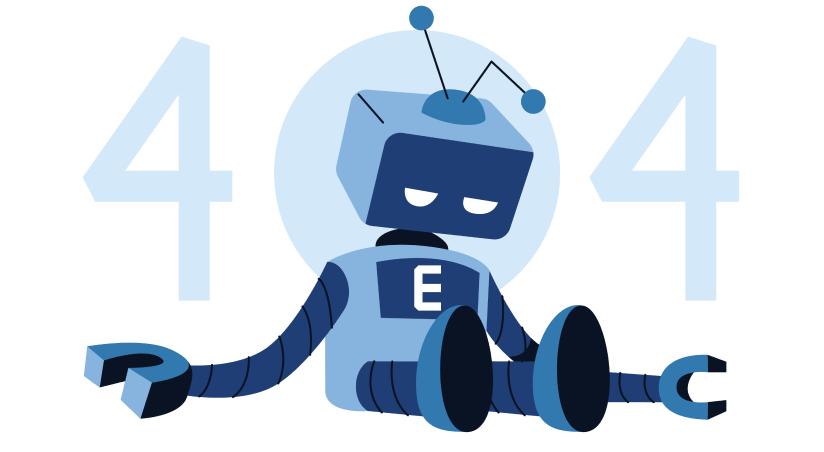
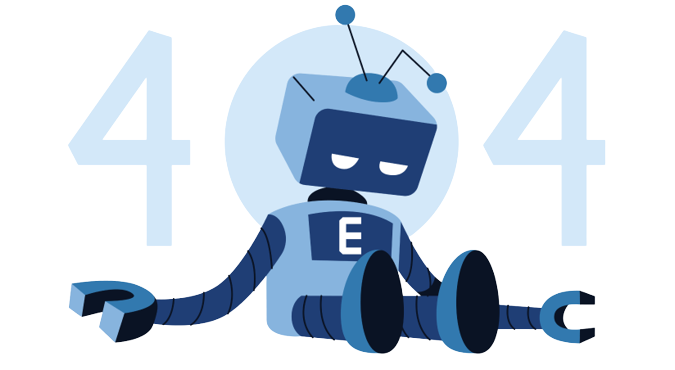
Atualizações

diff --git a/src/pages/NotFound.tsx b/src/pages/NotFound.tsx
@@ -1,28 +1,71 @@
 import React from "react";
+import { Link as ReachLink } from "react-router-dom";
 
 import Header from "../components/Header";
 import Page from "../components/Page";
 import Footer from "../components/Footer";
+import Content from "../components/Content";
+import FadeAnimation from "../components/FadeAnimation";
 
-import { Heading, Text, Image, Flex, Container, Box } from "@chakra-ui/react";
+import NotFoundImage from "../assets/notfoundspace.png";
 
-import Robot from "../assets/notfound.png";
+import {
+  Heading,
+  Text,
+  Image,
+  Flex,
+  Container,
+  Button,
+} from "@chakra-ui/react";
+
+import { ArrowBackIcon } from "@chakra-ui/icons";
 
 function NotFound() {
   return (
     <Page>
       <Header />
 
-      <Flex direction={["column", "row", "row"]} h={"100vh"}>
-        <Box h={"100%"}>
-          <Image boxSize={"200px"} src={Robot} alt="Página não encontrada" />
-        </Box>
+      <Content>
+        <Flex direction={["column", "row", "row"]} w={"100%"} align={"center"}>
+          <FadeAnimation idx={1}>
+            <Container>
+              <Image
+                w={"400px"}
+                src={NotFoundImage}
+                alt="Página não encontrada"
+              />
+            </Container>
+          </FadeAnimation>
 
-        <Container>
-          <Heading>Oops, não tem nada aqui!</Heading>
-          <Text>Chegou nessa página por engano?</Text>
-        </Container>
-      </Flex>
+          <Container textAlign={["center", "left"]}>
+            <FadeAnimation idx={2}>
+              <Heading my={3}>Oops!</Heading>
+              <Heading my={3} fontSize={"xl"}>
+                Parece que você se perdeu no tempo e espaço :(
+              </Heading>
+            </FadeAnimation>
+
+            <FadeAnimation idx={3}>
+              <Text my={3}>
+                A página que você está procurando não existe, ou foi removida.
+              </Text>
+            </FadeAnimation>
+
+            <FadeAnimation idx={4}>
+              <Button
+                leftIcon={<ArrowBackIcon />}
+                colorScheme="gray"
+                my={3}
+                as={ReachLink}
+                to={"/"}
+              >
+                Página Inicial
+              </Button>
+            </FadeAnimation>
+          </Container>
+        </Flex>
+      </Content>
+
       <Footer />
     </Page>
   );

diff --git a/src/components/Footer.tsx b/src/components/Footer.tsx
@@ -9,12 +9,12 @@ function Footer() {
     <>
       <Divider mb={4} />
 
-      <Flex justify={"space-between"} color="gray.600" pt={2} pb={3}>
+      <Flex justify={"space-between"} color="gray.600" pt={1} pb={2}>
         <Flex direction={"column"}>
           <Text>Rhenan Dias</Text>
         </Flex>
         <Flex justify={"center"} textAlign={"center"}>
-          <Text>Guarulhos - São Paulo, {currentYear}</Text>
+          <Text>Guarulhos, São Paulo - {currentYear}</Text>
         </Flex>
       </Flex>
     </>

diff --git a/src/components/Content.tsx b/src/components/Content.tsx
@@ -4,10 +4,15 @@ import { Box } from "@chakra-ui/react";
 
 interface Props {
   children: ReactNode;
+  props?: unknown;
 }
 
-function Content({ children }: Props) {
-  return <Box>{children}</Box>;
+function Content({ children, ...props }: Props) {
+  return (
+    <Box minH={"calc(100vh - 205px)"} p={0} m={0} {...props}>
+      {children}
+    </Box>
+  );
 }
 
 export default Content;

diff --git a/src/components/ProfileHeader.tsx b/src/components/ProfileHeader.tsx
@@ -1,4 +1,5 @@
 import React from "react";
+
 import ProfilePicture from "./ProfilePicture";
 import { Box, Flex, Heading, Text } from "@chakra-ui/react";
 
